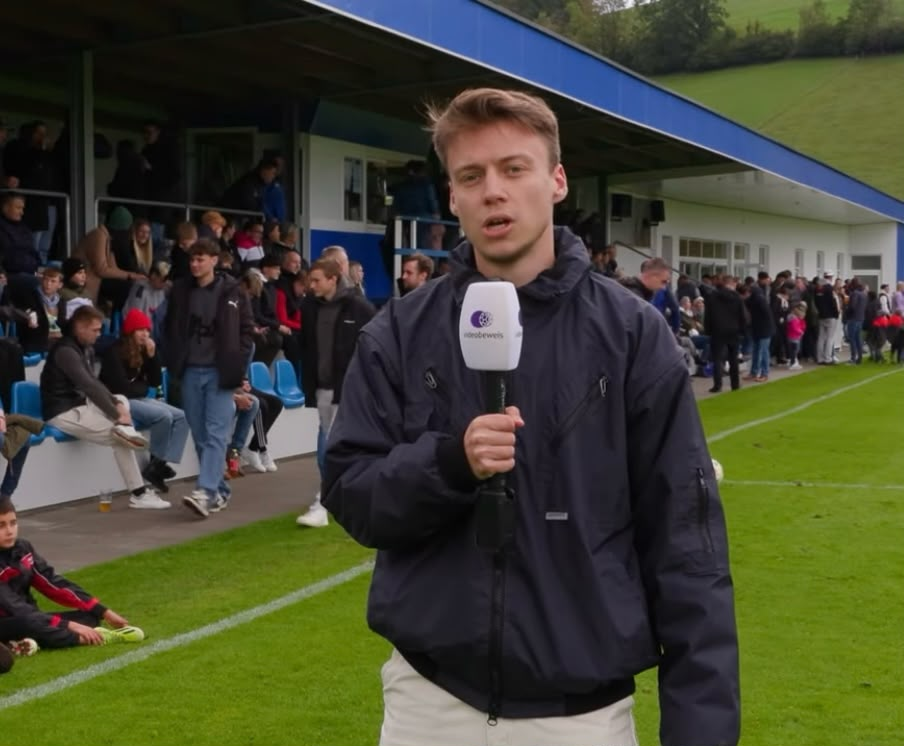
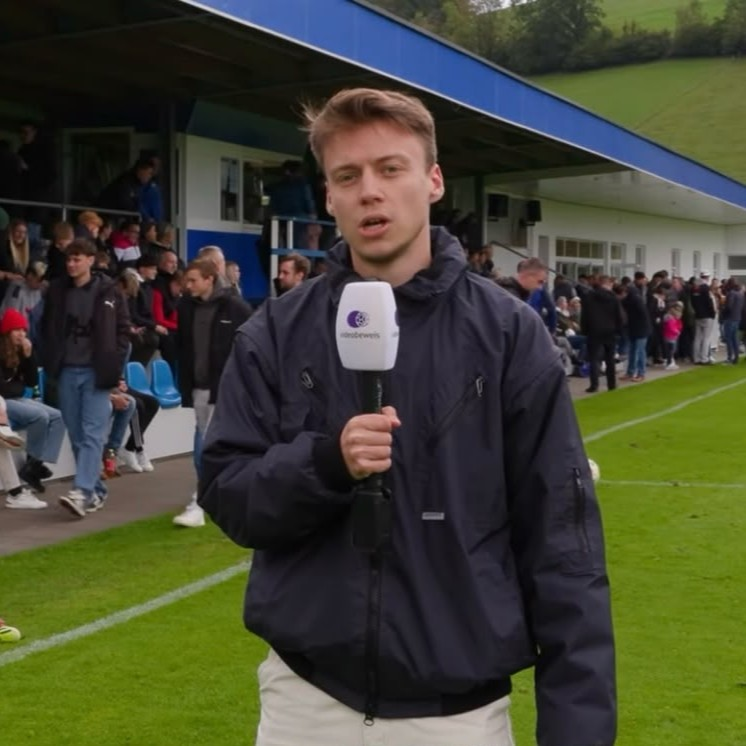
Add partners/sponsors sections, assets and styles
Introduce partner/sponsor UI and assets: add partner strip to index, partner grid, reach stats, sponsor tiers, logo & social section and responsive adjustments on sponsoring.html. Add CSS for .partner-*, .stats-grid and small sponsor-tier selector fix. Replace budget select with website input in contact form. Update Über uns with expanded history and Jonas bio plus host photo; add new sponsor and host images (aurelium-real-estate, pick-your-squad, jonas.jpeg) and update michael.jpeg. Purpose: surface partners/sponsorship options and presenter info.

diff --git a/sponsoring.html b/sponsoring.html
@@ -56,44 +56,100 @@
     </div>
   </section>
 
-  <!-- PLACEMENTS -->
-  <section class="section" id="placements">
+  <!-- PARTNER -->
+  <section class="section section-alt" id="partner">
     <div class="container">
-      <p class="section-eyebrow">Placements</p>
-      <h2 class="section-title">So können wir eure Marke einbinden</h2>
-      <p class="section-lead">Von der kurzen Erwähnung bis zur eigenen Kooperation – die Bausteine lassen sich einzeln buchen oder zu einem Paket kombinieren.</p>
-      <div class="feature-grid">
-        <div class="feature-card">
-          <span class="feature-icon"><svg class="icon" viewBox="0 0 256 256" aria-hidden="true"><path d="M168,12A75.9,75.9,0,0,0,92.49,96.33L23.91,189.85a19.89,19.89,0,0,0,2,26l14.29,14.29a19.89,19.89,0,0,0,26,2l93.52-68.58A76,76,0,1,0,168,12Zm52,76a51.66,51.66,0,0,1-7.75,27.27L140.74,43.75A52,52,0,0,1,220,88ZM54.72,210.71l-9.43-9.43,56.19-76.63a76.46,76.46,0,0,0,29.87,29.87ZM116,88a51.63,51.63,0,0,1,7.75-27.27l71.51,71.51A52,52,0,0,1,116,88Z"/></svg></span>
-          <h3>Audio-Spots</h3>
-          <p>Pre-Roll, Mid-Roll oder Outro – gesprochen von Michael &amp; Jonas, in der Sprache der Show statt Werbe-Sprech.</p>
+      <p class="section-eyebrow">Unsere Partner</p>
+      <h2 class="section-title">Wer uns aktuell unterstützt</h2>
+      <p class="section-lead">Diese Marken sind Teil von Hoch gwimmas nimma – vielen Dank für die Unterstützung!</p>
+      <div class="partner-grid">
+        <div class="partner-card">
+          <img class="partner-logo" src="images/sponsors/aurelium-real-estate.jpeg" alt="Aurelium Real Estate Immobilien">
+          <h3>Aurelium Real Estate Immobilien</h3>
+          <p>
+            Seit Jänner 2026 unterstützt Aurelium Real Estate Immobilien
+            unseren Fußballpodcast. Julia Slatin steht für kundennahe,
+            professionelle und treue Zusammenarbeit. Egal ob beim Erwerb von
+            Wohnungen, Häusern oder Gewerbeflächen – Julia Slatin steht Ihnen
+            zur Seite und unterstützt Sie mit ihrem Fachwissen.
+          </p>
         </div>
-        <div class="feature-card">
-          <span class="feature-icon"><svg class="icon" viewBox="0 0 256 256" aria-hidden="true"><path d="M128,20A108,108,0,1,0,236,128,108.12,108.12,0,0,0,128,20Zm71.88,151.42h-24L166.1,158l11.3-32.94L193.15,120l18.6,14.26A83.42,83.42,0,0,1,199.88,171.42ZM44.25,134.21,62.85,120l15.75,5.11L89.9,158l-9.75,13.42h-24A83.42,83.42,0,0,1,44.25,134.21ZM111.85,148l-9.54-27.77L128,102.56l25.69,17.67L144.15,148Zm80.66-73.73-6.78,22.85-15.81,5.14L140,81.69V65.46l21.22-14.59A84.27,84.27,0,0,1,192.51,74.27ZM94.78,50.87,116,65.46V81.69L86.08,102.26,70.27,97.12,63.49,74.27A84.27,84.27,0,0,1,94.78,50.87Zm13.58,158.79-8.62-24.37L109.39,172h37.22l9.65,13.29-8.62,24.37a83.59,83.59,0,0,1-39.28,0Z"/></svg></span>
-          <h3>Presented-by-Placement</h3>
-          <p>Euer Logo dezent auf der Website – z. B. im Footer oder als "Presented by"-Hinweis auf der Landingpage.</p>
-        </div>
-        <div class="feature-card">
-          <span class="feature-icon"><svg class="icon" viewBox="0 0 256 256" aria-hidden="true"><path d="M232,60H212V48a12,12,0,0,0-12-12H56A12,12,0,0,0,44,48V60H24A20,20,0,0,0,4,80V96a44.05,44.05,0,0,0,44,44h.77A84.18,84.18,0,0,0,116,195.15V212H96a12,12,0,0,0,0,24h64a12,12,0,0,0,0-24H140V195.11c30.94-4.51,56.53-26.2,67-55.11h1a44.05,44.05,0,0,0,44-44V80A20,20,0,0,0,232,60ZM28,96V84H44v28c0,1.21,0,2.41.09,3.61A20,20,0,0,1,28,96Zm160,15.1c0,33.33-26.71,60.65-59.54,60.9A60,60,0,0,1,68,112V60H188ZM228,96a20,20,0,0,1-16.12,19.62c.08-1.5.12-3,.12-4.52V84h16Z"/></svg></span>
-          <h3>Sponsored Episode</h3>
-          <p>Eine ganze Folge "presented by" euch, inklusive Erwähnung in Titel, Shownotes und auf der Folgen-Seite.</p>
-        </div>
-        <div class="feature-card">
-          <span class="feature-icon"><svg class="icon" viewBox="0 0 256 256" aria-hidden="true"><path d="M224,196h-4V40a12,12,0,0,0-12-12H152a12,12,0,0,0-12,12V76H96A12,12,0,0,0,84,88v36H48a12,12,0,0,0-12,12v60H32a12,12,0,0,0,0,24H224a12,12,0,0,0,0-24ZM164,52h32V196H164Zm-56,48h32v96H108ZM60,148H84v48H60Z"/></svg></span>
-          <h3>Partner-Logo-Wall</h3>
-          <p>Eine gemeinsame Übersicht aller aktiven Partner auf dieser Seite, mit Link zu eurer Website.</p>
-        </div>
-        <div class="feature-card">
-          <span class="feature-icon"><svg class="icon" viewBox="0 0 256 256" aria-hidden="true"><path d="M246.17,57.9,198.09,29.65h0A11.9,11.9,0,0,0,192,28H160a12,12,0,0,0-12,12,20,20,0,0,1-40,0A12,12,0,0,0,96,28H64a11.9,11.9,0,0,0-6.07,1.66h0L9.83,57.9A20.18,20.18,0,0,0,2,84l17.9,36.8A19.62,19.62,0,0,0,37.67,132H52v76a20,20,0,0,0,20,20H184a20,20,0,0,0,20-20V132h14.32a19.64,19.64,0,0,0,17.75-11.17L254,84A20.18,20.18,0,0,0,246.17,57.9ZM40.37,108,25.16,76.73,52,61v47ZM180,204H76V52h9.67a44,44,0,0,0,84.68,0H180Zm35.62-96H204V61l26.83,15.76Z"/></svg></span>
-          <h3>Social-Media-Shoutout</h3>
-          <p>Erwähnung oder Story/Post-Bundle auf Instagram, TikTok und YouTube, ergänzend zum Audio-Placement.</p>
-        </div>
-        <div class="feature-card">
-          <span class="feature-icon"><svg class="icon" viewBox="0 0 256 256" aria-hidden="true"><path d="M177.62,159.6a52,52,0,0,1-34,34,12.2,12.2,0,0,1-3.6.55,12,12,0,0,1-3.6-23.45,28,28,0,0,0,18.32-18.32,12,12,0,0,1,22.9,7.2ZM220,144a92,92,0,0,1-184,0c0-28.81,11.27-58.18,33.48-87.28a12,12,0,0,1,17.9-1.33L107.07,74.5,127,19.89a12,12,0,0,1,18.94-5.12C168.2,33.25,220,82.85,220,144Zm-24,0c0-41.71-30.61-78.39-52.52-99.29l-20.21,55.4a12,12,0,0,1-19.63,4.5L80.71,82.36C67,103.38,60,124.06,60,144a68,68,0,0,0,136,0Z"/></svg></span>
-          <h3>Sonderformate</h3>
-          <p>Gewinnspiele, Rabattcodes oder Q&amp;A-Aktionen für unsere Hörer:innen – individuell abgestimmt auf euer Angebot.</p>
+        <div class="partner-card">
+          <img class="partner-logo" src="images/sponsors/pick-your-squad.jpeg" alt="Pick Your Squad">
+          <h3>Pick Your Squad</h3>
+          <p>
+            Im Zuge der Weltmeisterschaft 2026 begannen wir eine Kooperation
+            mit Pick Your Squad. Pick Your Squad ist DIE Fantasy-Football-Plattform
+            in Österreich. In der Beta-Version boten sie während der WM
+            Turniere an, bei denen man um unterschiedliche Preise mitspielen
+            konnte. Ab Herbst 2026 soll Pick Your Squad auch die
+            österreichische Bundesliga beinhalten.
+          </p>
         </div>
       </div>
+    </div>
+  </section>
+
+  <!-- REICHWEITE -->
+  <section class="section" id="reichweite">
+    <div class="container">
+      <p class="section-eyebrow">Reichweite</p>
+      <h2 class="section-title">Wen ihr mit uns erreicht</h2>
+      <p class="section-lead">Ehrlicher Fußballpodcast für ein aufmerksames, engagiertes Publikum.</p>
+      <div class="stats-grid">
+        <div class="stat-card">
+          <p class="stat-number">300+</p>
+          <p class="stat-label">sportbegeisterte Hörer:innen im Schnitt pro Folge</p>
+        </div>
+        <div class="stat-card">
+          <p class="stat-number">DACH</p>
+          <p class="stat-label">Deutschland, Österreich, Schweiz – unsere Hauptregion</p>
+        </div>
+        <div class="stat-card">
+          <p class="stat-number">16–30</p>
+          <p class="stat-label">Jahre – unsere sportbegeisterte Kernzielgruppe</p>
+        </div>
+      </div>
+    </div>
+  </section>
+
+  <!-- WERBESPOT -->
+  <section class="section section-alt" id="werbespot">
+    <div class="container">
+      <p class="section-eyebrow">Werbespot im Podcast</p>
+      <h2 class="section-title">Euer Spot, gesprochen von Michi &amp; Jonas</h2>
+      <p class="section-lead">Ein max. einminütiger Werbespot – ihr wählt die Platzierung: Beginn, Mitte oder Ende der Folge.</p>
+      <div class="sponsor-tiers">
+        <div class="sponsor-tier">
+          <h3>Pro Folge</h3>
+          <p class="abo-price">30 €</p>
+          <p>Einmaliger Spot in einer Folge eurer Wahl.</p>
+        </div>
+        <div class="sponsor-tier">
+          <h3>10 Folgen</h3>
+          <p class="abo-price">270 €</p>
+          <p>Euer Spot läuft über 10 aufeinanderfolgende Folgen.</p>
+        </div>
+        <div class="sponsor-tier">
+          <h3>1 Jahr</h3>
+          <p class="abo-price">1.400 € <span>/ ~50 Folgen</span></p>
+          <p>Durchgehende Markenpräsenz über ein ganzes Jahr.</p>
+        </div>
+      </div>
+    </div>
+  </section>
+
+  <!-- LOGO & SOCIAL MEDIA -->
+  <section class="section" id="logo-social">
+    <div class="container">
+      <p class="section-eyebrow">Logo &amp; Social Media</p>
+      <h2 class="section-title">Präsenz über den Podcast hinaus</h2>
+      <p class="section-lead">Zusätzlich zum Werbespot platzieren wir euer Logo dort, wo unsere Community euch sieht.</p>
+      <ul class="check-list">
+        <li><span class="check-icon"><svg class="icon" viewBox="0 0 256 256" aria-hidden="true"><path d="M128,20A108,108,0,1,0,236,128,108.12,108.12,0,0,0,128,20Zm71.88,151.42h-24L166.1,158l11.3-32.94L193.15,120l18.6,14.26A83.42,83.42,0,0,1,199.88,171.42ZM44.25,134.21,62.85,120l15.75,5.11L89.9,158l-9.75,13.42h-24A83.42,83.42,0,0,1,44.25,134.21ZM111.85,148l-9.54-27.77L128,102.56l25.69,17.67L144.15,148Zm80.66-73.73-6.78,22.85-15.81,5.14L140,81.69V65.46l21.22-14.59A84.27,84.27,0,0,1,192.51,74.27ZM94.78,50.87,116,65.46V81.69L86.08,102.26,70.27,97.12,63.49,74.27A84.27,84.27,0,0,1,94.78,50.87Zm13.58,158.79-8.62-24.37L109.39,172h37.22l9.65,13.29-8.62,24.37a83.59,83.59,0,0,1-39.28,0Z"/></svg></span> Euer Logo auf unserer Website</li>
+        <li><span class="check-icon"><svg class="icon" viewBox="0 0 256 256" aria-hidden="true"><path d="M128,20A108,108,0,1,0,236,128,108.12,108.12,0,0,0,128,20Zm71.88,151.42h-24L166.1,158l11.3-32.94L193.15,120l18.6,14.26A83.42,83.42,0,0,1,199.88,171.42ZM44.25,134.21,62.85,120l15.75,5.11L89.9,158l-9.75,13.42h-24A83.42,83.42,0,0,1,44.25,134.21ZM111.85,148l-9.54-27.77L128,102.56l25.69,17.67L144.15,148Zm80.66-73.73-6.78,22.85-15.81,5.14L140,81.69V65.46l21.22-14.59A84.27,84.27,0,0,1,192.51,74.27ZM94.78,50.87,116,65.46V81.69L86.08,102.26,70.27,97.12,63.49,74.27A84.27,84.27,0,0,1,94.78,50.87Zm13.58,158.79-8.62-24.37L109.39,172h37.22l9.65,13.29-8.62,24.37a83.59,83.59,0,0,1-39.28,0Z"/></svg></span> Euer Logo auf unserem Instagram-Account</li>
+        <li><span class="check-icon"><svg class="icon" viewBox="0 0 256 256" aria-hidden="true"><path d="M128,20A108,108,0,1,0,236,128,108.12,108.12,0,0,0,128,20Zm71.88,151.42h-24L166.1,158l11.3-32.94L193.15,120l18.6,14.26A83.42,83.42,0,0,1,199.88,171.42ZM44.25,134.21,62.85,120l15.75,5.11L89.9,158l-9.75,13.42h-24A83.42,83.42,0,0,1,44.25,134.21ZM111.85,148l-9.54-27.77L128,102.56l25.69,17.67L144.15,148Zm80.66-73.73-6.78,22.85-15.81,5.14L140,81.69V65.46l21.22-14.59A84.27,84.27,0,0,1,192.51,74.27ZM94.78,50.87,116,65.46V81.69L86.08,102.26,70.27,97.12,63.49,74.27A84.27,84.27,0,0,1,94.78,50.87Zm13.58,158.79-8.62-24.37L109.39,172h37.22l9.65,13.29-8.62,24.37a83.59,83.59,0,0,1-39.28,0Z"/></svg></span> Erwähnung in Interviews auf YouTube</li>
+      </ul>
     </div>
   </section>
 
@@ -120,14 +176,8 @@
           <input type="text" id="firma" name="Firma">
         </div>
         <div class="form-group">
-          <label for="budget">Budget-Rahmen</label>
-          <select id="budget" name="Budget">
-            <option value="Noch offen">Noch offen</option>
-            <option value="Unter 500 €">Unter 500 €</option>
-            <option value="500–1.500 €">500–1.500 €</option>
-            <option value="1.500–5.000 €">1.500–5.000 €</option>
-            <option value="Über 5.000 €">Über 5.000 €</option>
-          </select>
+          <label for="website">Website (optional)</label>
+          <input type="url" id="website" name="Website" placeholder="https://">
         </div>
         <div class="form-group form-group--full">
           <label for="nachricht">Nachricht</label>

diff --git a/ueber-uns.html b/ueber-uns.html
@@ -49,9 +49,16 @@
       <p class="section-eyebrow">Über uns</p>
       <h1 class="section-title">Zwei Fans, ein Mikrofon</h1>
       <p class="section-lead">
-        Bei Hoch gwimmas nimma thematisieren Michi und Jonas alles rund um den
-        österreichischen Fußball. Vom Nationalteam über die Österreichische
-        Bundesliga bis hin zu den Legionären ist alles dabei!
+        Bei Hoch gwimmas nimma sprechen Michi und Jonas über alles, was den
+        österreichischen Fußball bewegt.
+      </p>
+      <p class="section-lead">
+        Im Mittelpunkt steht das österreichische Nationalteam, das während der
+        Länderspielphasen intensiv begleitet und bei jedem Großturnier
+        ausführlich analysiert wird. Vor und nach den Spielen richten die
+        beiden außerdem den Blick auf die Leistungen der ÖFB-Legionäre im
+        Ausland oder widmen sich prägenden Persönlichkeiten der
+        österreichischen Fußballgeschichte.
       </p>
     </div>
   </section>
@@ -62,13 +69,39 @@
       <p class="section-eyebrow">Unsere Geschichte</p>
       <h2 class="section-title">Wie alles begonnen hat</h2>
       <p class="section-lead">
-        [Beispieltext – hier könnt ihr eure eigene Entstehungsgeschichte erzählen]
-        Michael und Jonas kennen sich schon lange über den gemeinsamen Sonntags-Stammplatz
-        vorm Fernseher. Aus den endlosen Diskussionen über Schiedsrichter-Entscheidungen,
-        Trainerwechsel und Transfergerüchte wurde irgendwann die Idee, das Ganze
-        aufzunehmen – und Hoch gwimmas nimma war geboren. Seitdem sprechen wir jede
-        Woche über das, was uns am österreichischen Fußball wirklich bewegt: die
-        Bundesliga, das Nationalteam und alles, was dazwischen passiert.
+        Wir schreiben das Jahr 2024. Im Februar erschien die erste Folge von
+        Hoch gwimmas nimma. Von Beginn an legten Michi und Jonas großen Wert
+        auf ein authentisches Hörerlebnis und machten ihren Podcast im
+        Freundes- und Bekanntenkreis bekannt. Das erste große Highlight ließ
+        nicht lange auf sich warten: Bei der Europameisterschaft 2024 konnten
+        die beiden zwei Spiele der österreichischen Nationalmannschaft live
+        im Stadion verfolgen.
+      </p>
+      <p class="section-lead">
+        Woche für Woche erschien eine neue Folge. Bereits damals riefen sie
+        das Format „ÖFB-Legende" ins Leben, das schnell zu einem festen
+        Bestandteil des Podcasts wurde. Ergänzt wurde das Programm durch ein
+        wöchentliches Update zu den Top-5-Ligen Europas. Doch am Ende der
+        Saison 2024/25 wurde klar, dass sich unmöglich alle relevanten Spiele
+        und Themen in einer einzigen Podcastfolge unterbringen ließen.
+      </p>
+      <p class="section-lead">
+        Mit der Saison 2025/26 folgte daher ein Kurswechsel. Michi und Jonas
+        legten ihren Schwerpunkt verstärkt auf die österreichischen
+        Legionäre und starteten die ersten Interviews auf ihrem
+        YouTube-Kanal. Zu ihren Gästen zählten unter anderem Paul Lipczinski,
+        damals Spieler von Austria Salzburg, sowie Stefan Maierhofer,
+        ehemaliger Stürmer von Rapid Wien. Beide gaben spannende Einblicke in
+        ihre Karrieren. Gleichzeitig feierte auch das Format „ÖFB-Legenden"
+        sein Comeback.
+      </p>
+      <p class="section-lead">
+        Ab März 2026 richtete sich der volle Fokus auf die Weltmeisterschaft
+        2026 – die erste WM mit österreichischer Beteiligung seit 28 Jahren.
+        Insgesamt analysierten Michi und Jonas alle 48 teilnehmenden
+        Mannschaften, mehr als 600 Spieler sowie die zwölf Gruppen bis ins
+        kleinste Detail. Auch während des Turniers wurde jede Entwicklung
+        genau verfolgt und ausführlich besprochen.
       </p>
     </div>
   </section>
@@ -106,13 +139,23 @@
           </a>
         </div>
         <div class="host-card">
-          <div class="host-avatar">JW</div>
+          <div class="host-avatar host-avatar-photo">
+            <img src="images/jonas.jpeg" alt="Jonas Weilinger" loading="lazy">
+          </div>
           <h3>Jonas Weilinger</h3>
           <p>
-            [Beispieltext] Host &amp; Co-Kommentator. Kennt jede Vereinsgeschichte
-            und jedes Transfergerücht, bevor es offiziell ist. Sein Talent, aus einer
-            Randnotiz eine halbstündige Diskussion zu machen, ist im Podcast
-            mittlerweile Kult.
+            Maschinenbaustudent und seit 2010 leidenschaftlicher Fußballfan.
+            Das spanische Nationalteam hatte es ihm in den 2010er-Jahren besonders
+            angetan – über die Spanier fand er zu seinem Lieblingsverein, dem
+            FC Barcelona. Aktiv verfolgt er das Team seit 2015 und verpasst
+            seitdem kaum eine Partie.
+          </p>
+          <p>
+            Während seiner Ausbildung arbeitete Jonas immer wieder freiberuflich
+            für B&amp;T Film und lernte dort den Umgang mit Kamera und Ton. Die
+            Idee, seine Leidenschaft für Fußball mit einem Podcast zu verbinden,
+            stieß 2024 bei Michi auf Begeisterung – und so entstand der
+            österreichische Fußballpodcast Hoch gwimmas nimma.
           </p>
         </div>
       </div>

diff --git a/css/style.css b/css/style.css
@@ -391,6 +391,61 @@ h1, h2, h3 { font-family: var(--font-display); font-weight: 400; letter-spacing:
 .feature-card h3 { font-family: var(--font-body); font-size: 1.05rem; font-weight: 700; color: var(--white); margin-bottom: 8px; }
 .feature-card p { margin: 0; font-size: 0.92rem; color: rgba(243,239,230,0.7); }
 
+/* Partner / Sponsoren */
+.partner-grid {
+  margin-top: 48px;
+  display: grid;
+  grid-template-columns: repeat(2, 1fr);
+  gap: 24px;
+}
+.partner-card {
+  background: rgba(243,239,230,0.04);
+  border: 1px solid rgba(243,239,230,0.1);
+  border-radius: var(--radius);
+  padding: 32px;
+}
+.partner-logo {
+  width: 72px;
+  height: 72px;
+  border-radius: 50%;
+  object-fit: cover;
+  margin-bottom: 18px;
+  background: var(--white);
+}
+.partner-card h3 { font-family: var(--font-body); font-size: 1.1rem; color: var(--white); margin-bottom: 10px; }
+.partner-card p { margin: 0; color: rgba(243,239,230,0.7); font-size: 0.95rem; }
+
+.partner-strip {
+  padding: 48px 0;
+  background: var(--ink);
+  border-top: 1px solid rgba(243,239,230,0.08);
+  border-bottom: 1px solid rgba(243,239,230,0.08);
+}
+.partner-strip-inner { text-align: center; }
+.partner-strip-inner .section-eyebrow { justify-content: center; }
+.partner-strip-logos {
+  margin-top: 28px;
+  display: flex;
+  align-items: center;
+  justify-content: center;
+  flex-wrap: wrap;
+  gap: 40px;
+}
+.partner-strip-logos a {
+  display: flex;
+  align-items: center;
+}
+.partner-strip-logos img {
+  height: 56px;
+  width: 56px;
+  border-radius: 50%;
+  object-fit: cover;
+  filter: grayscale(1);
+  opacity: 0.75;
+  transition: filter 0.2s ease, opacity 0.2s ease;
+}
+.partner-strip-logos a:hover img { filter: grayscale(0); opacity: 1; }
+
 /* Embed */
 .embed-wrap {
   margin-top: 40px;
@@ -629,7 +684,7 @@ h1, h2, h3 { font-family: var(--font-display); font-weight: 400; letter-spacing:
   padding: 32px 28px;
 }
 .sponsor-tier h3 { font-family: var(--font-body); font-size: 1.1rem; font-weight: 700; color: var(--white); margin-bottom: 6px; }
-.sponsor-tier p { margin: 0 0 18px; font-size: 0.92rem; color: rgba(243,239,230,0.7); }
+.sponsor-tier > p:not(.abo-price) { margin: 0 0 18px; font-size: 0.92rem; color: rgba(243,239,230,0.7); }
 .sponsor-tier ul { display: flex; flex-direction: column; gap: 10px; }
 .sponsor-tier li {
   display: flex;
@@ -640,6 +695,29 @@ h1, h2, h3 { font-family: var(--font-display); font-weight: 400; letter-spacing:
 }
 .sponsor-tier .check-icon { width: 22px; height: 22px; }
 .sponsor-tier .check-icon .icon { width: 13px; height: 13px; }
+
+/* Reichweite-Stats */
+.stats-grid {
+  margin-top: 48px;
+  display: grid;
+  grid-template-columns: repeat(3, 1fr);
+  gap: 24px;
+}
+.stat-card {
+  background: rgba(243,239,230,0.04);
+  border: 1px solid rgba(243,239,230,0.1);
+  border-radius: var(--radius);
+  padding: 32px 24px;
+  text-align: center;
+}
+.stat-number {
+  font-family: var(--font-display);
+  font-size: 2.6rem;
+  color: var(--red-glow);
+  line-height: 1;
+  margin: 0 0 10px;
+}
+.stat-label { margin: 0; font-size: 0.92rem; color: rgba(243,239,230,0.75); }
 
 .contact-form {
   margin-top: 40px;
@@ -905,7 +983,9 @@ h1, h2, h3 { font-family: var(--font-display); font-weight: 400; letter-spacing:
   .nav-toggle { display: flex; }
   .feature-grid { grid-template-columns: 1fr; }
   .host-grid { grid-template-columns: 1fr; }
+  .partner-grid { grid-template-columns: 1fr; }
   .sponsor-tiers { grid-template-columns: 1fr; }
+  .stats-grid { grid-template-columns: 1fr; }
   .contact-form { grid-template-columns: 1fr; }
   .steps-grid { grid-template-columns: 1fr; }
   .abo-teaser-card { padding: 32px 24px; }

diff --git a/index.html b/index.html
@@ -138,6 +138,21 @@
     </div>
   </section>
 
+  <!-- PARTNER STRIP -->
+  <section class="partner-strip" id="partner">
+    <div class="container partner-strip-inner">
+      <p class="section-eyebrow">Unsere Partner</p>
+      <div class="partner-strip-logos">
+        <a href="sponsoring.html#partner" aria-label="Aurelium Real Estate Immobilien">
+          <img src="images/sponsors/aurelium-real-estate.jpeg" alt="Aurelium Real Estate Immobilien" loading="lazy">
+        </a>
+        <a href="sponsoring.html#partner" aria-label="Pick Your Squad">
+          <img src="images/sponsors/pick-your-squad.jpeg" alt="Pick Your Squad" loading="lazy">
+        </a>
+      </div>
+    </div>
+  </section>
+
   <!-- ABO TEASER -->
   <section class="section" id="abo-teaser">
     <div class="container">
